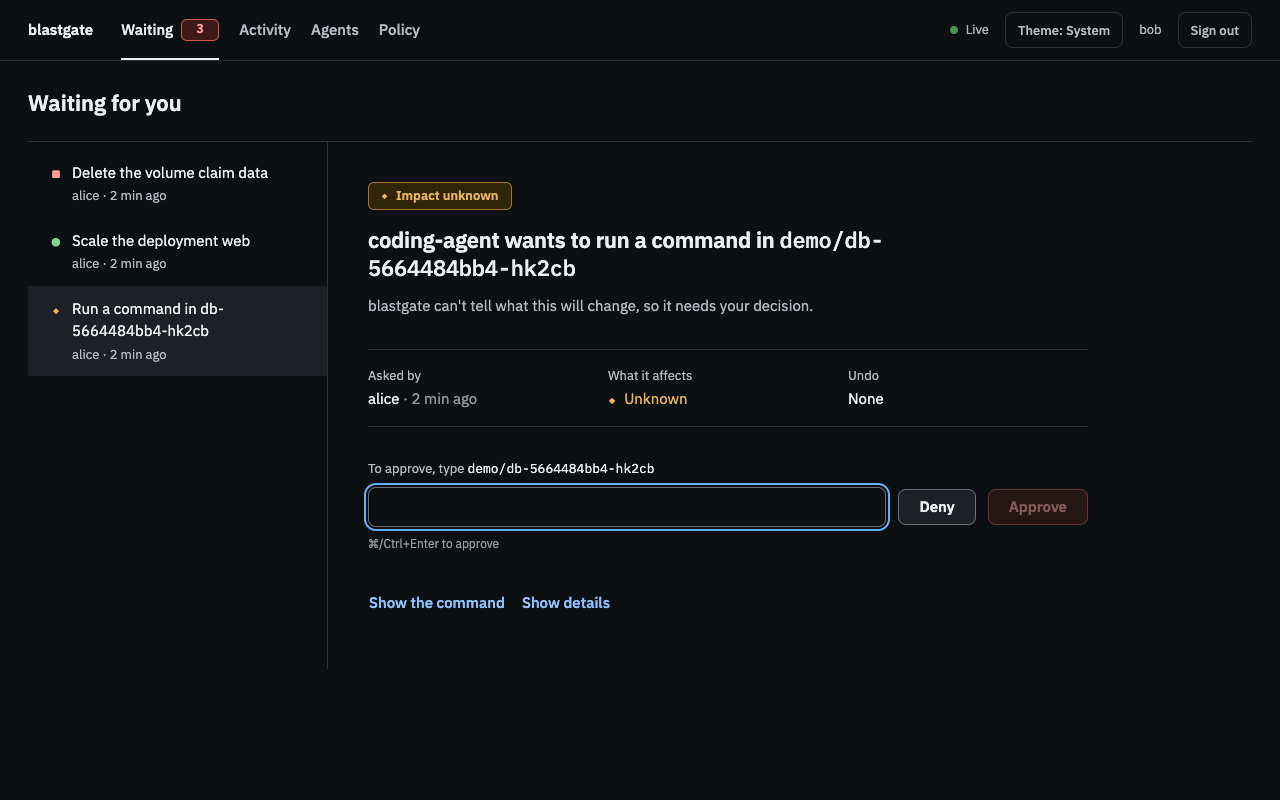
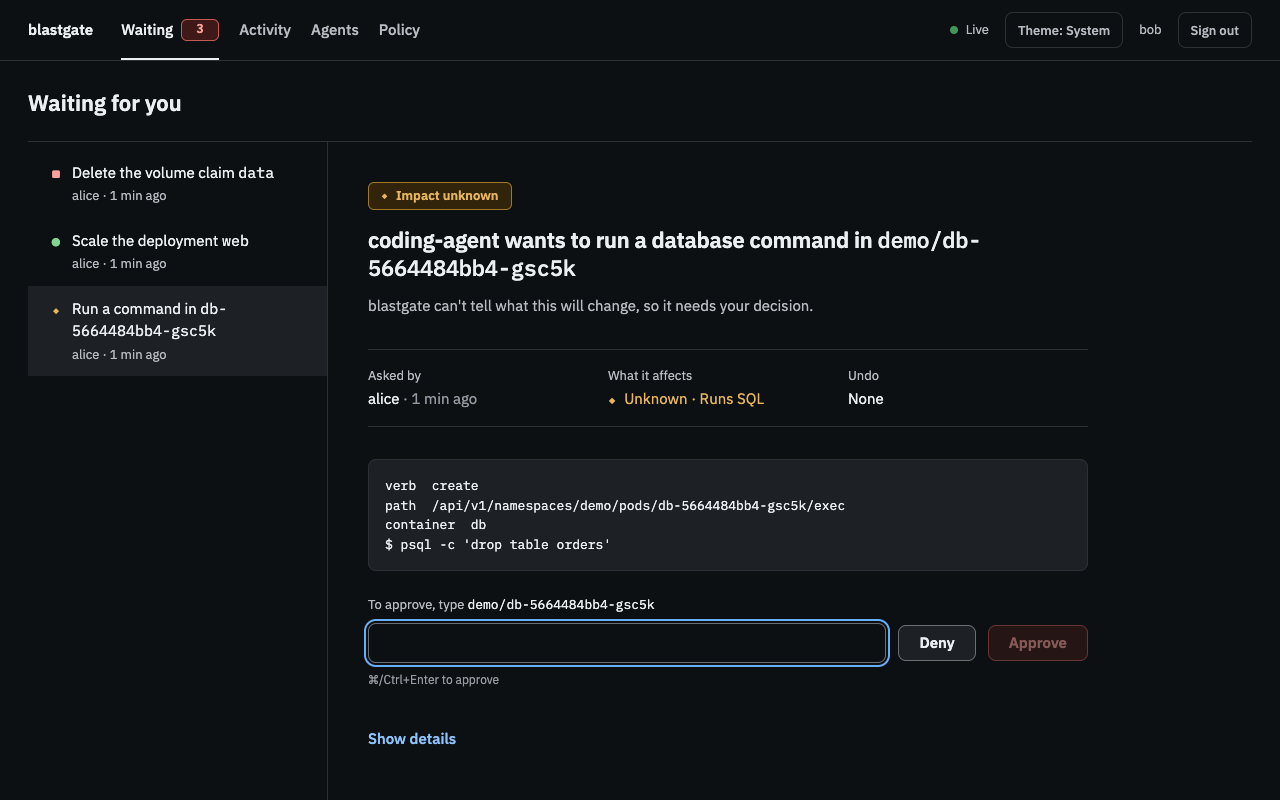
readme: undo wording, shown command, esc, held; new screenshots

diff --git a/README.md b/README.md
@@ -1,6 +1,6 @@
 # blastgate
 
-![blastgate's approver console, Waiting tab: three held requests, and an exec running SQL whose impact could not be measured, waiting for its target to be typed before it can be approved](assets/ui-waiting.png)
+![blastgate's approver console, Waiting tab: three held requests, and a database command whose impact could not be measured, its command shown in full, waiting for its target to be typed before it can be approved](assets/ui-waiting.png)
 
 A gateway between AI agents and Kubernetes. An agent's kubectl talks to blastgate,
 and blastgate forwards each request **as the human who owns the agent's session**,
@@ -228,7 +228,9 @@ The console has four tabs: **Waiting**, **Activity**, **Agents** and **Policy**.
 header also shows whether the live stream is connected (*Live*, *Connecting*,
 *Reconnecting*, *Offline*), a theme switch (System, Dark, Light; dark unless the system
 asks for light), the signed-in approver and *Sign out*. Press `?` for the keyboard
-shortcuts. Links to the old pages (`#/queue`, `#/feed`, `#/bypass`, `#/sessions`) still
+shortcuts. `Esc` goes back: from Details to Waiting, and from Changes outside blastgate
+to Activity. In a text field, a confirm step or the shortcut list it only cancels or
+closes that. Links to the old pages (`#/queue`, `#/feed`, `#/bypass`, `#/sessions`) still
 open their replacements.
 
 ### Waiting
@@ -242,10 +244,19 @@ waiting for you"), and the next one appears after each decision. A pending appro
 past its hour leaves the list.
 
 The panel says what is being asked in plain words, with names in monospace: "coding-agent
-wants to run a command in `demo/db-…`". Above it, a tag says how hard the change is to
-take back; below it, one sentence why, then who asked, what it affects (objects,
-volumes destroyed, Services left with no backends, disruption budgets broken) and the
-undo. *Show the command* expands the recorded action; *Show details* opens the full page.
+wants to run a command in `demo/db-…`", or "run a database command" when blastgate
+detected SQL in it. Above it, a tag says how hard the change is to take back; below it,
+one sentence why, then who asked, what it affects (objects, volumes destroyed, Services
+left with no backends, disruption budgets broken, and *Runs SQL* when SQL was detected)
+and the undo. The undo reads *Objects saved (manifests only)* when blastgate snapshotted
+the objects, or *Objects saved, data lost* when a volume's data is destroyed anyway: a
+snapshot restores objects, not data (see [Audit and undo](#audit-and-undo)). *None*
+means nothing was kept.
+
+For an unmeasured request, and for any exec, attach, port-forward, proxy or debug
+container, the command is the impact, so the recorded command is shown in full above
+the buttons. For other requests *Show the command* expands it. *Show details* opens the
+full page.
 
 How much it takes to approve follows the tag, first match wins:
 
@@ -254,16 +265,16 @@ How much it takes to approve follows the tag, first match wins:
 | Impact unknown | the class is missing or not one blastgate knows, or the impact was not measured (an exec, a proxied request, a scoring timeout) | type the target |
 | Cannot be undone | data is destroyed, or the class is TERMINAL | type the target |
 | Grants access | AUTHORITY | type the target |
-| Needs a follow-up to undo | COMPENSABLE | *Approve*, then *Confirm approval*, which shows the undo |
+| Needs a follow-up to undo | COMPENSABLE | *Approve*, then *Confirm approval*, which says how to undo it ("restore the saved objects", or the follow-up blastgate worked out) |
 | Can be undone | REVERSIBLE or READ | *Approve*, then *Confirm approval* |
 
 The target is `namespace/name` (for a cluster-scoped object its name, and failing that
 the resource or verb). It must be typed exactly: paste and drop are refused, and a
 plain Enter does nothing; `⌘/Ctrl+Enter` or *Approve* sends it once it matches. *Confirm
 approval* only becomes pressable 300ms after it appears. *Deny* has the focus by default
-(the typed field, when typing is required), and no single key approves. An unmeasured
-request reads *Unknown*, never a count of zero: its zeros mean nothing was measured, not
-that nothing happens.
+(the typed field, when typing is required; on the Details page, the question), and no
+single key approves. An unmeasured request reads *Unknown*, never a count of zero: its
+zeros mean nothing was measured, not that nothing happens.
 
 The console will not approve a request made on the signed-in approver's own behalf (the
 approver's name equals the request's human): *Approve* is disabled and says so. That is
@@ -285,14 +296,15 @@ details* holds the verb, resource, namespace, name, rule, approval id and the re
 action. An expired request says so
 and has no buttons.
 
-![Details for a held claim delete: one volume destroyed, and the tree showing the claim and the volume whose data it destroys](assets/ui-details.png)
+![Details for a held claim delete: one volume destroyed, undo reading objects saved, data lost, and the tree showing the claim and the volume whose data it destroys](assets/ui-details.png)
 
 ### Activity
 
 Every request the agents sent through blastgate, one row each, newest first: the time, a
 plain sentence, who via which agent, and the outcome (*Allowed*, *Held*, *Waiting for
-approval*, *Denied*, *In flight*, *Failed*). A held row links to its details. Chips show
-All, Held, Denied or Allowed; *More filters* narrows by agent or human.
+approval*, *Denied*, *In flight*, *Failed*, or *Interrupted* when the request was cut
+off or cancelled before blastgate saw how it ended). A held row links to its details.
+Chips show All, Held, Denied or Allowed; *More filters* narrows by agent or human.
 
 A write is recorded twice, when it is decided and when it ends, and the two fold into
 one row: until the request ends (an exec that is still running, say) it reads *In
@@ -321,8 +333,8 @@ revokes the session, which stops its next request.
 The loaded policy (collapsed, with where it came from), and *Try a policy*: edit a
 candidate and replay it over the last 1 to 720 hours of decisions, the same as
 `blastgate replay`. The result says how many decisions would change and lists each one
-("Waited for approval → Denied"). It changes nothing: to adopt a policy, change the file
-and restart `serve`.
+("Held → Denied"). It changes nothing: to adopt a policy, change the file and restart
+`serve`.
 
 ![A policy replay: a candidate that denies instead of holding would have changed three decisions](assets/ui-policy.png)
 
